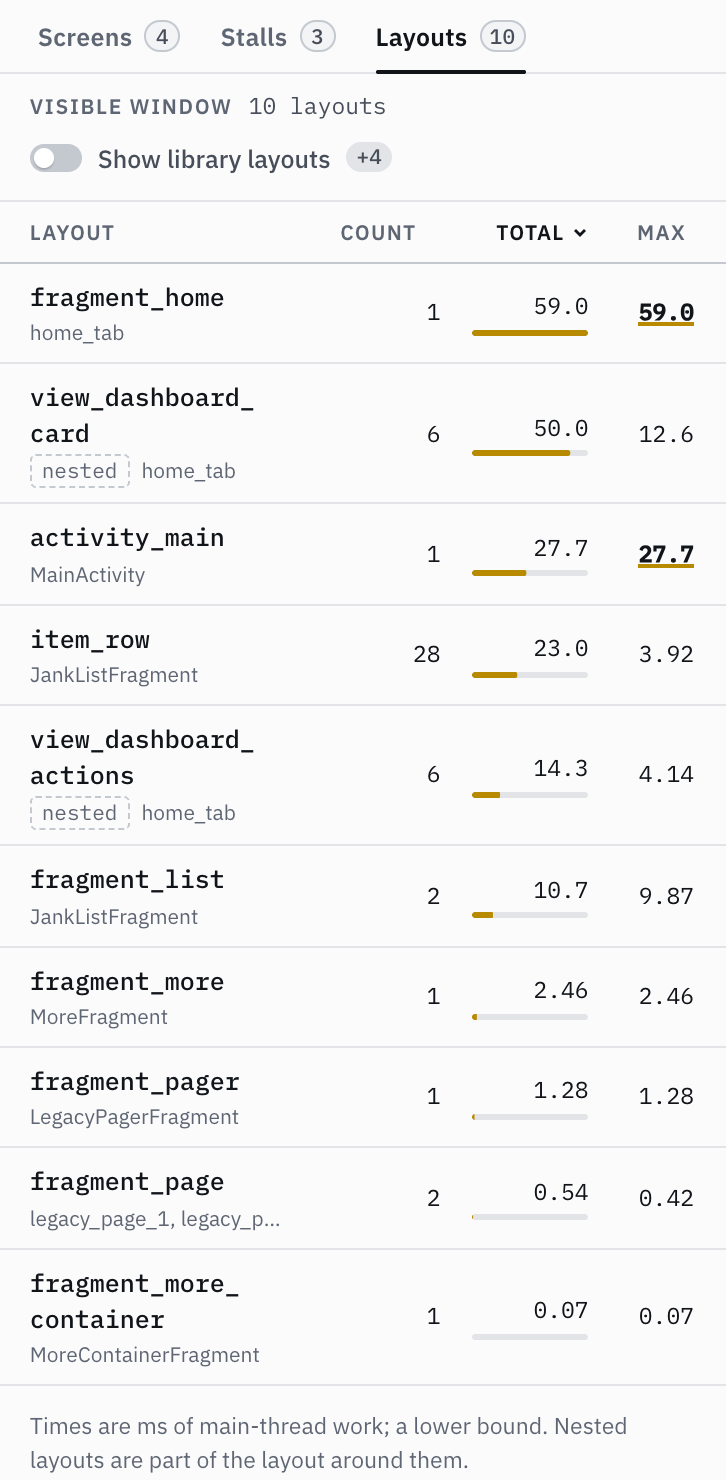
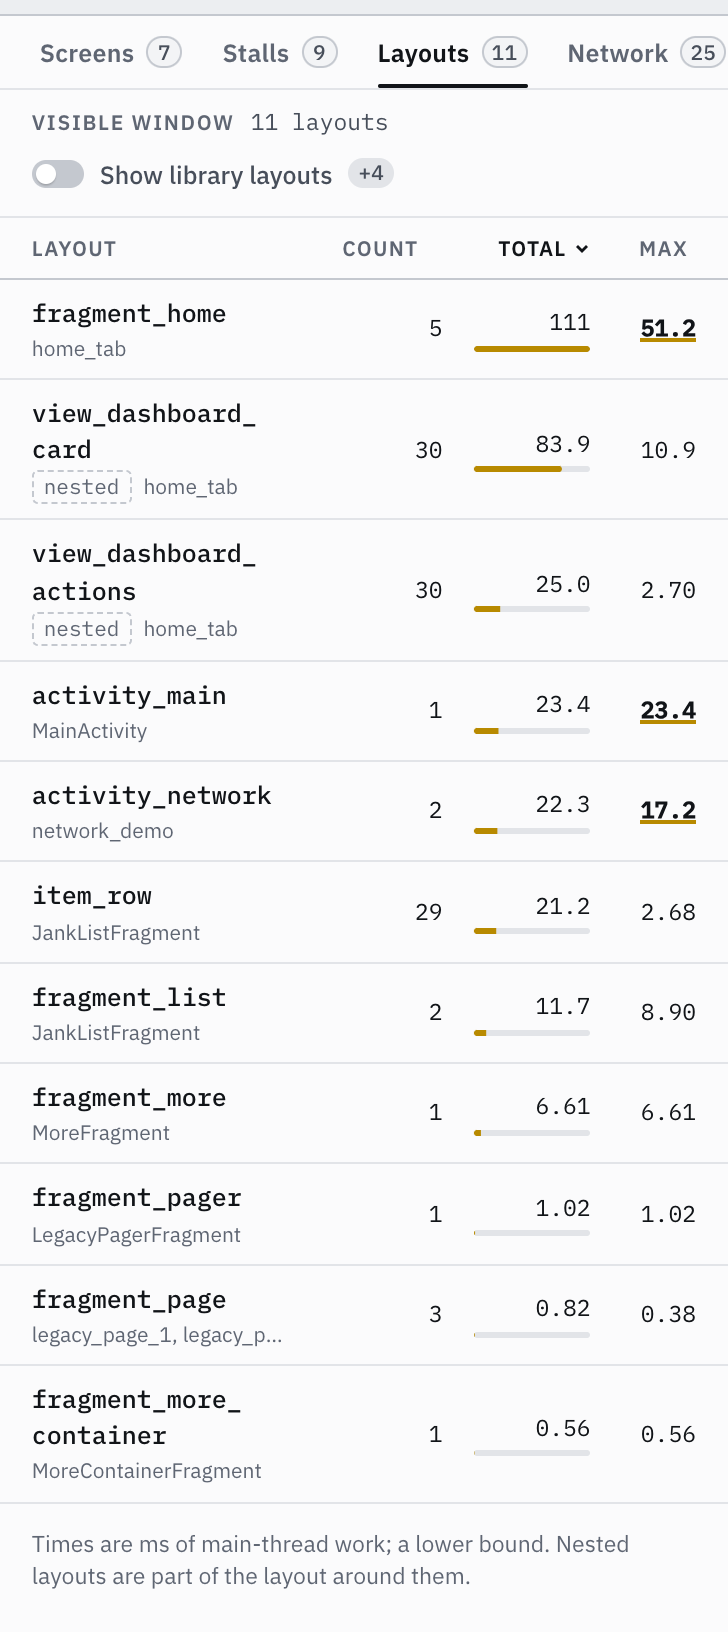
docs: new dashboard screenshots for 0.9.0
The sample app on an emulator, captured with Playwright at 2x:
- the dashboard in light and dark;
- the Screens and Layouts tabs;
- the Stalls tab by origin;
- the Inspector view with live editors;
- new: the Network tab with a mocked request, and the color picker.

diff --git a/README.md b/README.md
@@ -37,7 +37,7 @@ It works in two modes:
 
 <sub>The bundled sample app on a headless emulator, operated from the Device column: screen bands across all
 charts, SDK FrameMetrics in the Rendering lane, logcat below the timeline, and the Screens tab ranking the
-janky list first.</sub>
+screens by jank.</sub>
 
 ## What the dashboard shows
 
@@ -93,11 +93,13 @@ they stop. The dashboard shows whether the SDK is connected (and its version), o
 join in when the panel is wider). Names come from the app's own screen alias when it has one (`home_tab`,
 `legacy_page_1`), otherwise from the class.</sub>
 
-<img width="363" alt="Stalls tab: watchdog threshold and StrictMode controls, offenders ranked by culprit line (SlowWork.kt:16), and the stall events" src="docs/images/dashboard-stalls.png">
+<img width="363" alt="Stalls tab: watchdog threshold, StrictMode, inflation and RxJava tracking controls, offenders grouped by origin (an Input click, an RxJava observeOn chain, a coroutine), and the stall events with their lines (SlowWork.kt:16, AsyncWork.kt:42 and :37) and origins" src="docs/images/dashboard-stalls.png">
 
-<sub>The Stalls tab after tapping the sample's "Block main thread" button three times from the Device column: the
-offenders table names the line that blocked the main thread and the screen it happened on, and each stall is
-listed with its duration; with StrictMode on, disk and network violations join the list with their stacks.</sub>
+<sub>The Stalls tab after tapping the sample's Home buttons that block the main thread (directly, from an RxJava
+chain and from a coroutine) from the Device column, with the offenders grouped **By origin**: where the work came
+from, how often and for how long. **By line** ranks the lines that blocked instead. Each stall is listed with its
+duration, its line and its origin; with StrictMode on, disk and network violations join the list with their
+stacks.</sub>
 
 ### Finding the line that blocks the main thread
 
@@ -165,10 +167,10 @@ switch on **Show library layouts**. A layout the SDK cannot name is shown by its
 layout) gets its own row, marked **nested**, because that is its own cost; but its time is already part of the
 layout around it, so the row is not extra time.
 
-<img width="363" alt="Layouts tab: the sample's layouts sorted by total inflation time, fragment_home first, its included dashboard cards marked nested, and item_row inflated 28 times on the list screen" src="docs/images/dashboard-layouts.png">
+<img width="363" alt="Layouts tab: the sample's layouts sorted by total inflation time, fragment_home first, its included dashboard cards marked nested, and item_row inflated 29 times on the list screen" src="docs/images/dashboard-layouts.png">
 
 <sub>The Layouts tab after opening the sample's screens: `fragment_home` is the slowest single inflation, its
-included cards (`view_dashboard_card`, nested) make up most of it, and `item_row` adds up over 28 RecyclerView
+included cards (`view_dashboard_card`, nested) make up most of it, and `item_row` adds up over 29 RecyclerView
 rows.</sub>
 
 The Screens tab gets an **Inflate** column (inflation time on that screen, each inflation counted once and nested
@@ -223,7 +225,7 @@ collapses, follows the selection, takes the arrow keys (↑↓ move, → opens, 
 source file and destination; hovering a row lights up the view on the screen. `Esc` or the toggle goes back to the live screen. While Inspect is on the snapshot refreshes about 0.7 s
 after the app changes its top screen (never continuously), and the refresh button takes a new one.
 
-<img width="710" alt="Layout Inspector on the sample app: the frozen screen with the first card's Share button selected and labelled MaterialButton 231 × 126, and the Inspector tab with the view tree, its ancestor path, source view_dashboard_actions.xml:15 (end of start tag), owner HomeFragment in MainActivity, text, bounds and size" src="docs/images/dashboard-inspector.png">
+<img width="880" alt="The Inspector view on the sample's Detail screen: the frozen screen with the price tag selected and labelled MaterialTextView#price_tag, the view tree, and its attributes: the ancestor path, source activity_detail.xml:28 (end of start tag), owner DetailActivity, bounds and size, and the live editors for its text, visibility, alpha, width and height, translation, elevation, background and text color" src="docs/images/dashboard-inspector.png">
 
 - **Where the tree comes from.** With the SDK in the app (Lionscope 0.5.0 or later) the SDK walks the app's own
   views and the badge reads `SDK`. From SDK 0.9.0 on this needs no profiling session: while a dashboard shows the
@@ -287,6 +289,8 @@ A color field's swatch opens a picker: drag the square and the hue and alpha sli
 screen already uses or a recent one, or press **Pick** and click any pixel of the frozen screen with the mouse (Esc cancels the
 pick). The color is sent when you let go, not on every step.
 
+<img width="483" alt="The background color picker of the sample's price tag: a saturation and brightness square, hue and alpha sliders, the color as #FFFFF3E0, the Pick (eyedropper) button and the colors on this screen" src="docs/images/dashboard-color-picker.png">
+
 Editing needs a **profiling session** (press Start): the app takes edits only from a link whose welcome carried the
 link proof (see [Security model](#security-model)), and an inspect-only link never has one. Without a session the
 Inspector still shows every value, read-only, and says to press Start; a session whose link key could not be handed
@@ -321,6 +325,8 @@ marked; filter by text, method and status class (2xx … 5xx, failed). Select on
 response headers, bodies (JSON pretty-printed) and timing (waiting for the headers, then reading the body). The
 **Network** lane on the timeline shows each request as a bar from start to end, coloured by status; click one to
 open it in the tab.
+
+<img width="363" alt="Network tab: the sample's requests with method, path, host, status and time, a failed one in red, two answered by a mock rule and marked Mocked, and the selected one's overview: URL, status, and the rule that mocked it" src="docs/images/dashboard-network.png">
 
 ```kotlin
 // Retrofit (OkHttp 4.x or 5.x): add it last, after the app's own interceptors
